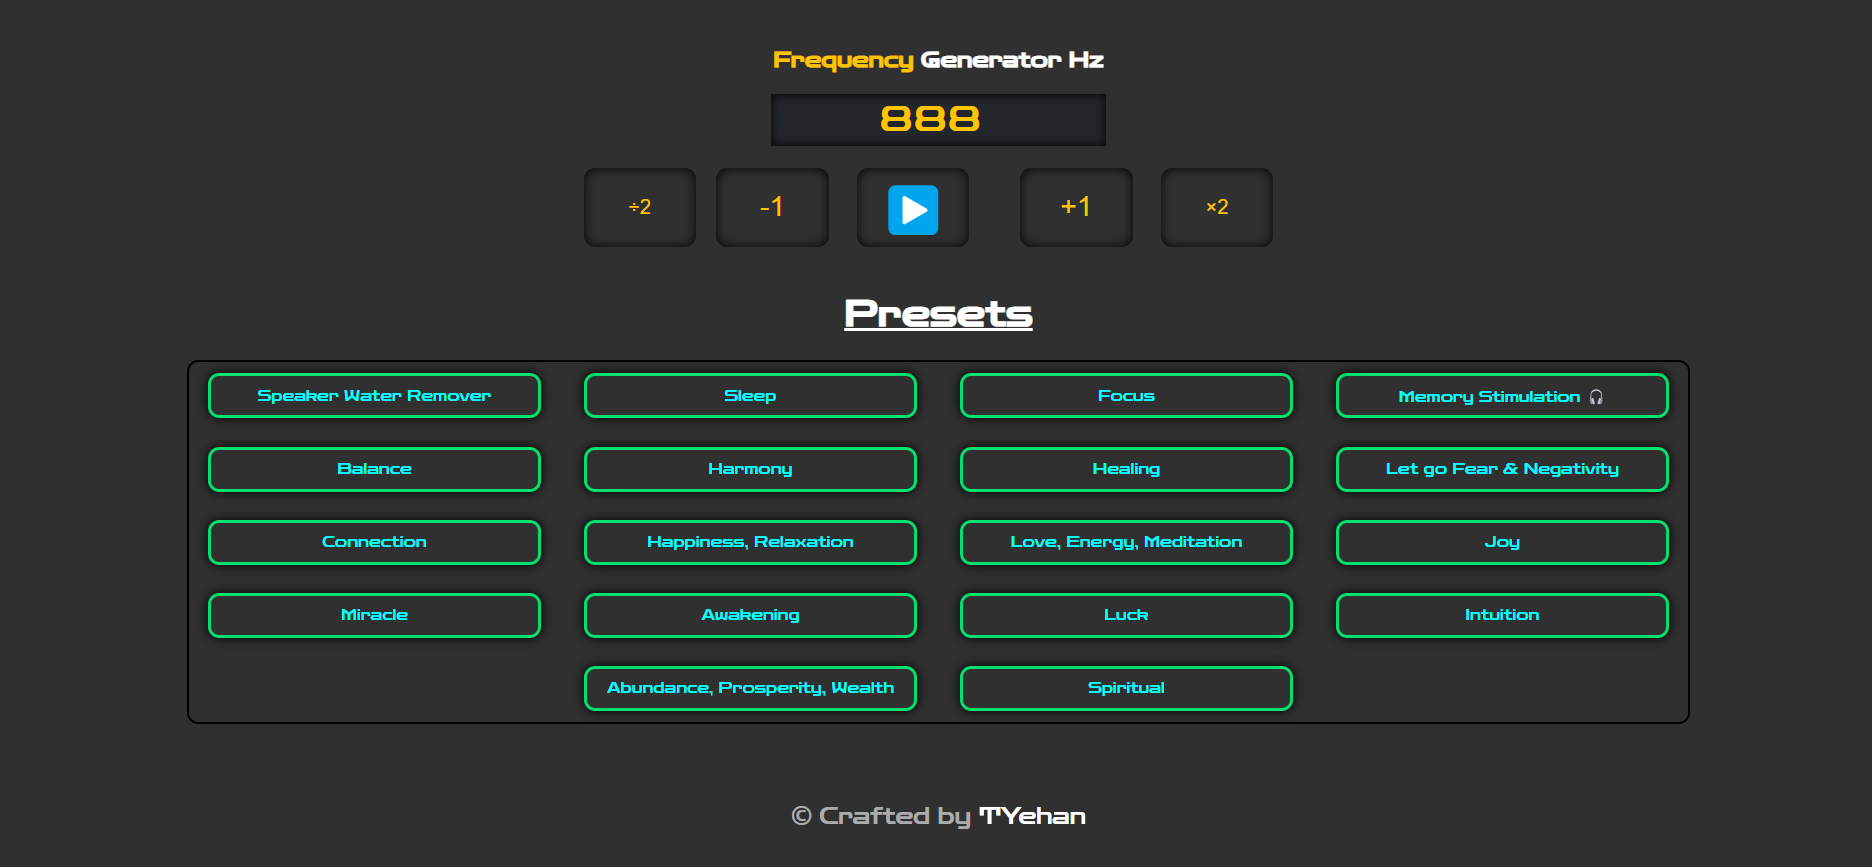
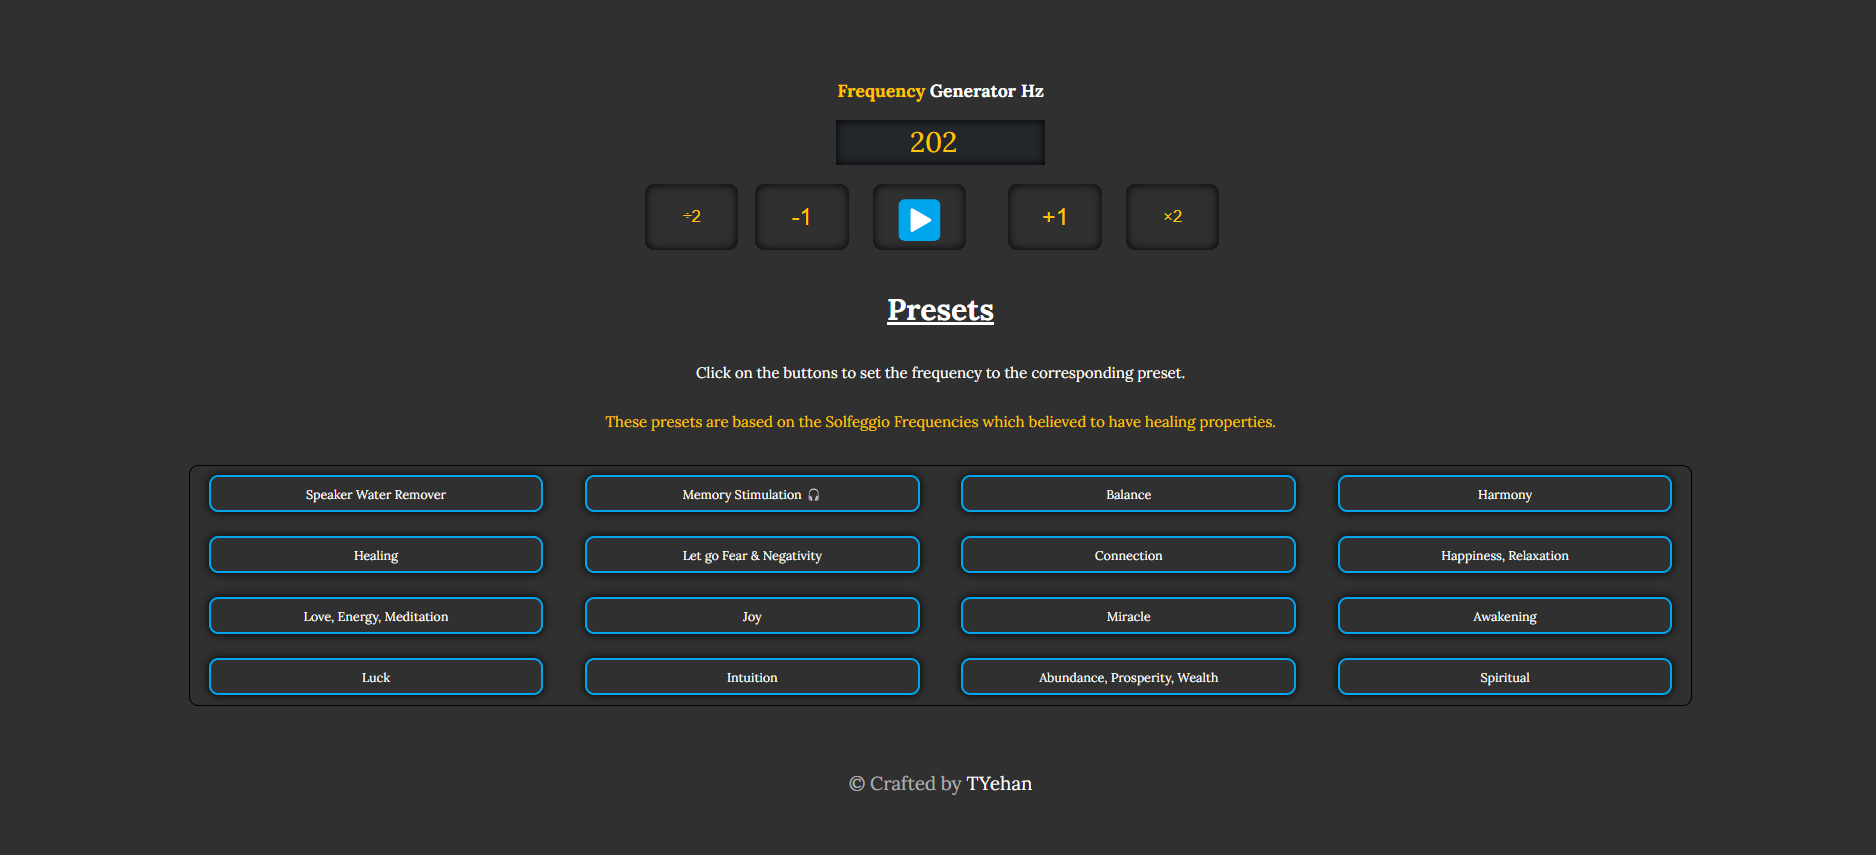
Refined the Usability and UI

diff --git a/FrequesncyGenerator.html b/FrequesncyGenerator.html
@@ -7,7 +7,7 @@
     <script src="resources\FrequencyGenerator.js"></script>
     <link rel="preconnect" href="https://fonts.googleapis.com">
     <link rel="preconnect" href="https://fonts.gstatic.com" crossorigin>
-    <link href="https://fonts.googleapis.com/css2?family=Zen+Dots&display=swap" rel="stylesheet">
+    <link href="https://fonts.googleapis.com/css2?family=Lora:ital,wght@0,400..700;1,400..700&display=swap" rel="stylesheet">
     <meta http-equiv="Content-type" content="text/html; charset=utf-8">
     <title>Frequency Generator</title>
   </head>
@@ -31,10 +31,11 @@
     <br/>
 
     <h1 style="color:white;"><u>Presets</u></h1>
+    <p style="color:white;">Click on the buttons to set the frequency to the corresponding preset.</p>
+    <p style="color:#ffc400ff;">These presets are based on the Solfeggio Frequencies which believed to have healing properties.</p>
+    <br/>
     <div id="presets" style="display: grid; grid-template-columns: repeat(4, 1fr); gap: 5px;">
       <button id="water" onclick="updateFreq(newFreq = 165)">Speaker Water Remover</button>
-      <button id="sleep" onclick="updateFreq(newFreq = 3)">Sleep</button>
-      <button id="focus" onclick="updateFreq(newFreq = 14)">Focus</button>
       <button id="memry" onclick="updateFreq(newFreq = 40)">Memory Stimulation 🎧</button>
       <button id="balance" onclick="updateFreq(newFreq = 136.1)">Balance</button>
       <button id="harmony" onclick="updateFreq(newFreq = 174)">Harmony</button>
@@ -48,10 +49,8 @@
       <button id="awakening" onclick="updateFreq(newFreq = 741)">Awakening</button>
       <button id="luck" onclick="updateFreq(newFreq = 777)">Luck</button>
       <button id="intuition" onclick="updateFreq(newFreq = 852)">Intuition</button>
-      <br>
       <button id="abundance" onclick="updateFreq(newFreq = 888)">Abundance, Prosperity, Wealth</button>
       <button id="spiritual" onclick="updateFreq(newFreq = 963)">Spiritual</button>
-      <br>
     </div>
 
     <div id="frequency">

diff --git a/resources/FrequencyGenerator.css b/resources/FrequencyGenerator.css
@@ -1,6 +1,6 @@
 /* Created by Tharindu Yehan */
 body,button,#freqText,#audioControls{
-    font-family: 'Zen Dots', cursive;
+    font-family: "Lora", cursive, serif;
 }
 
 #presets{
@@ -91,11 +91,11 @@ input:hover{
 button{
     width:90%;
     min-height: 40px;
-    color:cyan;
+    color:white;
     background-color:#303030;
     height:30px;
     font-size:auto ;
-    border:solid #00e16fff 3px;
+    border:solid #00a6ed 3px;
     display: block;
     margin-left: auto;
     margin-right: auto;
@@ -109,6 +109,7 @@ button{
 button:hover{
     border-color:#ffc400ff;
     transition:.5s;
+    color: #ffc400ff;
 }
 
 footer{
